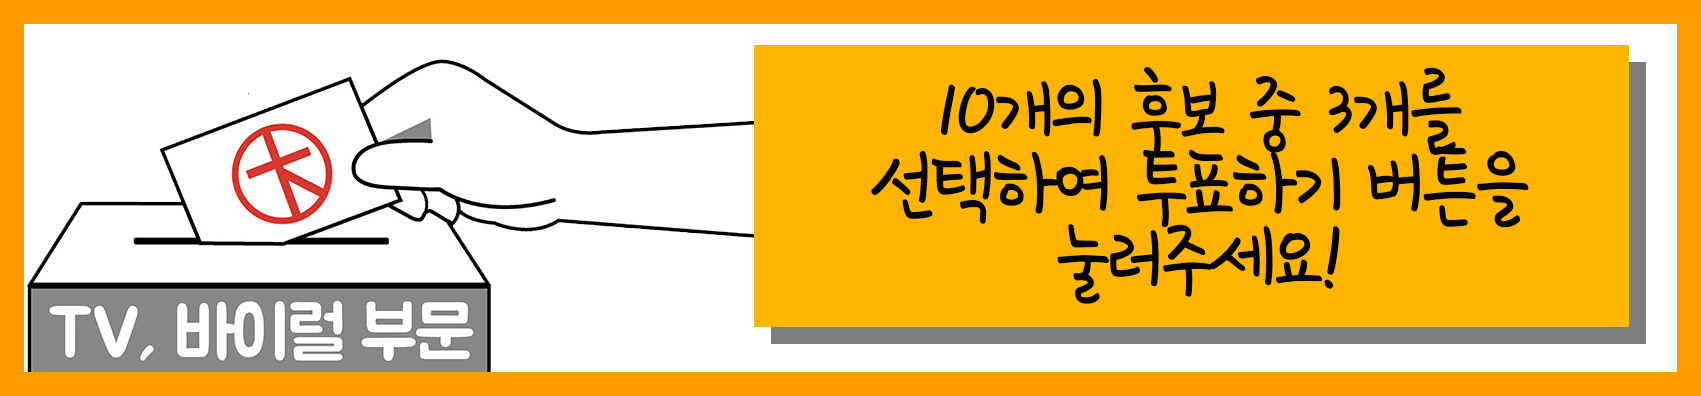
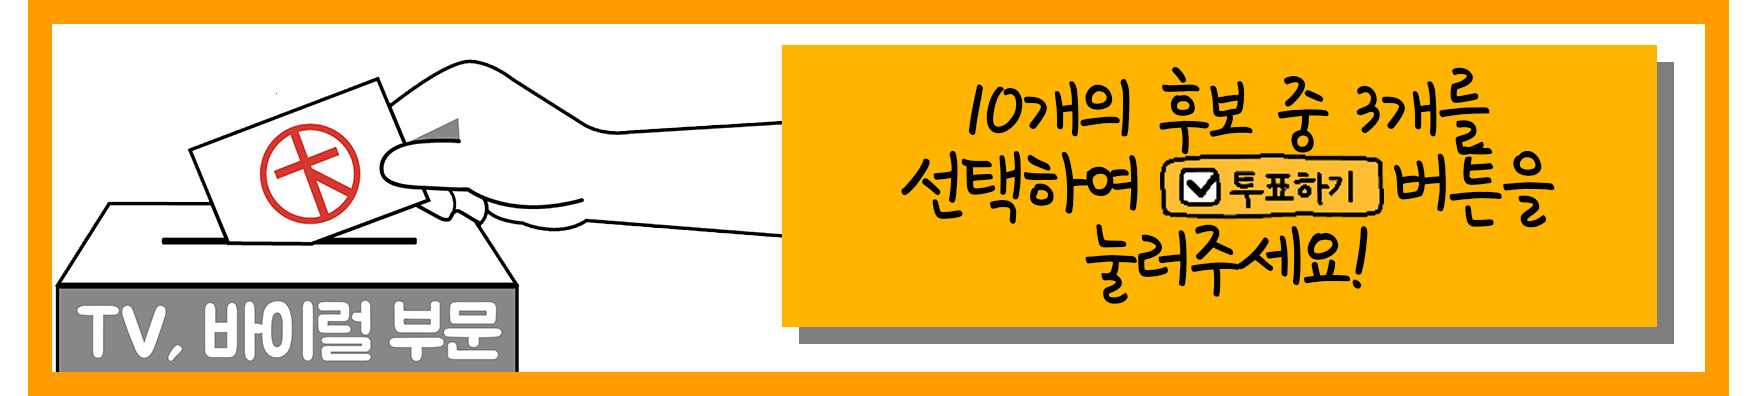
saturday

diff --git a/vote/templates/vote/outdoor.html b/vote/templates/vote/outdoor.html
@@ -7,13 +7,6 @@
 	<head>
 		<title>대학생이 뽑은 좋은 광고</title>
 		<meta charset="utf-8">
-<<<<<<< HEAD
-		<!-- <link rel="stylesheet" href="https://fonts.googleapis.com/icon?family=Material+Icons"> -->
-
-
-		<!-- <script type="text/javascript" src="../../../js/jquery.js"></script> -->
-=======
->>>>>>> 1184a00c2bc100fcfaf475f47d78337ef642e453
 		<style>
 			.wrapper {
 				width: 100%;
@@ -26,22 +19,12 @@
 
 			.candidates {
 				text-align: center;
-				background-color: #ffffff;
-<<<<<<< HEAD
-			    width: 700px;
+                /*background-color: #ffffff;*/
+                width: 700px;
                 height: auto;	
                 margin-top: 10px;
                 margin-left: auto;
                 margin-right: auto;
-				
-=======
-				width: 700px;
-				height: auto;
-				margin-top: 10px;
-				margin-left: auto;
-				margin-right: auto;
->>>>>>> 1184a00c2bc100fcfaf475f47d78337ef642e453
-				border: 1px black;
 			}
 		</style>
 
@@ -54,27 +37,7 @@
 			<img class="wrapper" src="{% static 'outdoor.png' %}">
 			<form action="/outdoor/" method="POST">
 			{% csrf_token %}
-			<div class="candidates">
-<<<<<<< HEAD
-				<img src="{% static 'out_one.png' %}" width="700px"  >
-			    <div>
-                    <input type="radio" name="out_id" value="1">선택하기</input>
-		        </div>	
-            </div>
-			
-			<div class="candidates">
-				<img src="{% static 'out_two.png' %}" width="700px">
-                <div>    
-                    <input type="radio" name="out_id" value="2">선택하기</input>
-                </div>
-            </div>
-		
-			<div class="candidates">
-				<img src="{% static 'out_three.png' %}" width="700px" >
-			    <div>
-                    <input type="radio" name="out_id" value="3">선택하기</input>
-                </div>
-=======
+    		<div class="candidates">
 				<img src="{% static 'baedaltong.png' %}" width="700px">
 				<div>
 					<input type="radio" name="out_id" value="1">선택하기</input>
@@ -93,38 +56,21 @@
 				<div>
 					<input type="radio" name="out_id" value="3">선택하기</input>
 				</div>
->>>>>>> 1184a00c2bc100fcfaf475f47d78337ef642e453
 			</div>
 			
 			<div class="candidates">
-<<<<<<< HEAD
-				<img src="{% static 'out_four.png' %}" width="700px" >
-			    <div>    
-                    <input type="radio" name="out_id" value="4">선택하기</input>
-                </div>
-=======
-				<img src="{% static 'heattech.png' %}" width="700px">
+            	<img src="{% static 'heattech.png' %}" width="700px">
 				<div>
 					<input type="radio" name="out_id" value="4">선택하기</input>
 				</div>
->>>>>>> 1184a00c2bc100fcfaf475f47d78337ef642e453
 			</div>
 
 			<div class="candidates">
-<<<<<<< HEAD
-				<img src="{% static 'out_five.png' %}" width="700px" >
-                <div>    
-                    <input type="radio" name="out_id" value="5">선택하기</input>
-                </div>
-			</div>
-=======
-				<img src="{% static 'pagoda.png' %}" width="700px">
+                <img src="{% static 'pagoda.png' %}" width="700px">
 				<div>
 					<input type="radio" name="out_id" value="5">선택하기</input>
 				</div>
 			</div>	
->>>>>>> 1184a00c2bc100fcfaf475f47d78337ef642e453
-
 			<div class="button">
 				<input type="submit" value="투표하기">
 			</div>

diff --git a/vote/templates/vote/video.html b/vote/templates/vote/video.html
@@ -39,18 +39,15 @@
 				padding-left: auto;
 				padding-right: auto;
 				width: 100%;
-<<<<<<< HEAD
-                height: 400px;
-=======
 				height: 400px;
->>>>>>> 1184a00c2bc100fcfaf475f47d78337ef642e453
 			}
 		</style>
 	</head>
 
 	<body style="background-color: #ffbf00;">
     <img class="wrapper" src= "{% static 'indexlogo.png' %}">
-	<h1> {{ title }}</h1>
+    <img class="wrapper" src= "{% static 'video.png' %}">
+    <h1> {{ title }}</h1>
 		<form action="/video/" method="POST">
 			{% csrf_token %}
 			{% for ad in vid_candidates %}
@@ -69,7 +66,7 @@
 			</div>
 			{% endfor %}
 			<div class="button">
-				<input class="mdl-button mdl-js-button mdl-button--raised mdl-js-ripple-effect mdl-button--accent" type="submit" value="투표하기">
+				<input type="image" src="{% static 'button.png' %}" alt="Submit" >
 			</div>
 		</form>
 		<script>

diff --git a/vote/templates/vote/index.html b/vote/templates/vote/index.html
@@ -20,24 +20,24 @@
                 border: none;
                 text-align: center;
 			}
+
+            .intro {
+                text-align: center;
+            }
 		</style>
 	</head>
 
 	<body style="background-color: #ffbf00;">
 		<img class="wrapper" src="{% static 'indexlogo.png' %}">
 
-		<div class="intro" style="background-color: #ffffff;">
+		<div class="intro">
 			<img src="{% static 'intro.png' %}">
 		</div>
 
 		<div class="button">
 		<table>
 			<form action="/video">
-<<<<<<< HEAD
-			<input type="submit" value="투표하기" src="{% static 'button.png' %}">
-=======
-			<input type="submit" value="투표하기">
->>>>>>> 1184a00c2bc100fcfaf475f47d78337ef642e453
+    			<input type="image" src="{% static 'button.png' %}" alt="Submit">
 			</form>
 		</table>
 		</div>

diff --git a/vote/templates/vote/exit.html b/vote/templates/vote/exit.html
@@ -9,6 +9,10 @@
 			.wrapper {
 				width: 100%;
 				height: auto;
+            }
+            
+            .outro {
+                text-align: center;
 			}
 		</style>
 	</head>
@@ -16,7 +20,7 @@
 	<body style="background-color: #ffbf00;">
 		<img class="wrapper" src="{% static 'indexlogo.png' %}">
 
-		<div class="intro" style="background-color: #ffffff;">
+		<div class="outro">
 			<img src="{% static 'outro.png' %}">
 		</div>
 	</body>

diff --git a/vote/templates/vote/entertainment.html b/vote/templates/vote/entertainment.html
@@ -19,7 +19,7 @@
 
 			.candidates {
 				text-align: center;
-				background-color: #ffffff;
+				/*background-color: #ffffff;*/
 				width: 700px;
 				height: auto;
 				margin-top: 10px;
